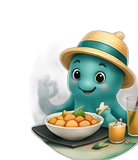
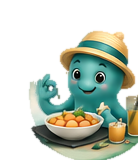
Agrandit et décircularise le badge mascotte des lignes catégorie
- Bulle circulaire retirée : la mascotte (détourage nettoyé, halos
  résiduels de la bulle pastel d'origine supprimés) est posée nue,
  agrandie (132px), et déborde volontairement du cadre de la ligne
  pour un effet plus dynamique.
- Fond en lavis dégradé, angle varié par catégorie ; mascotte à
  gauche ou à droite en alternance ; texte agrandi et teinté de la
  couleur de catégorie.
- Les 8 lignes gardent la même taille et les mêmes données (nom +
  compteur) — plus de variante "centrée" qui cassait l'uniformité.

diff --git a/web/components/ui/CategoryRow.tsx b/web/components/ui/CategoryRow.tsx
@@ -5,6 +5,35 @@ import { CATEGORY_MAP } from "@/data/categories";
 import { iconForKey, subIconFor, mascotFor } from "@/lib/icons";
 
 /**
+ * Position de la mascotte dans la ligne de catégorie — gauche/droite en
+ * alternance. Pas de position « centrée » : elle empilait le texte sous la
+ * mascotte et augmentait la hauteur de la carte, cassant l'uniformité des 8
+ * lignes (toutes doivent faire la même taille, avec les mêmes données).
+ */
+const MASCOT_POSITION: Record<string, "left" | "right"> = {
+  "manger-boire": "left",
+  "sortir-decouvrir": "right",
+  "faire-du-sport": "left",
+  "sante-bien-etre": "right",
+  "acheter-equiper": "left",
+  "vie-pratique": "right",
+  "famille-travail": "left",
+  agenda: "right",
+};
+
+/** Angle du dégradé de fond, varié par catégorie pour éviter 8 lignes identiques. */
+const GRADIENT_ANGLE: Record<string, number> = {
+  "manger-boire": 120,
+  "sortir-decouvrir": 60,
+  "faire-du-sport": 150,
+  "sante-bien-etre": 90,
+  "acheter-equiper": 30,
+  "vie-pratique": 135,
+  "famille-travail": 75,
+  agenda: 105,
+};
+
+/**
  * Ligne de navigation (icône dans un rond + libellé + compteur + chevron).
  * Utilise l'icône illustrée découpée (planche fournie par la cliente) quand
  * disponible pour la clé, sinon repli sur l'icône Phosphor simple.
@@ -41,23 +70,97 @@ export function CategoryRow({
   const subIcon = subIconFor(resolvedKey);
   const Icon = iconForKey(resolvedKey);
 
+  const countLabel =
+    count !== undefined ? `${count} adresse${count > 1 ? "s" : ""}` : undefined;
+
+  // Ligne « mascotte » (catégorie) : fond lavis dégradé dans la couleur de la
+  // catégorie (angle varié, cf. GRADIENT_ANGLE), texte et badge agrandis,
+  // mascotte à gauche ou à droite (cf. MASCOT_POSITION) — même taille et
+  // mêmes données sur les 8 lignes, aucune n'est plus haute qu'une autre.
+  if (mascot && cat) {
+    const pos = MASCOT_POSITION[resolvedKey] ?? "left";
+    const angle = GRADIENT_ANGLE[resolvedKey] ?? 120;
+    const labelColor = `color-mix(in srgb, ${cat.color} 55%, var(--ink))`;
+
+    // Mascotte posée directement sur le fond (pas de bulle circulaire) : le
+    // détourage transparent suffit à la faire ressortir. Volontairement plus
+    // grande que la ligne — elle déborde légèrement du cadre pour un effet
+    // plus dynamique.
+    const badge = (
+      // eslint-disable-next-line @next/next/no-img-element
+      <img
+        src={mascot}
+        alt=""
+        aria-hidden
+        className="shrink-0 w-[132px] h-[132px] -my-4 object-contain drop-shadow-[0_4px_8px_rgba(0,0,0,0.18)]"
+      />
+    );
+    const text = (
+      <span className="flex-1 min-w-0 flex flex-col">
+        <span className="flex items-center gap-1.5">
+          <span className="text-[19px] font-extrabold truncate leading-tight" style={{ color: labelColor }}>
+            {displayLabel}
+          </span>
+          {locked && (
+            <span
+              className="shrink-0 inline-flex items-center gap-0.5 px-1.5 py-0.5 rounded-pill text-[9.5px] font-bold text-on-accent"
+              style={{ background: "var(--accent)" }}
+            >
+              🔒 Premium
+            </span>
+          )}
+        </span>
+        {countLabel && (
+          <span className="text-[13.5px] font-semibold" style={{ color: `color-mix(in srgb, ${cat.color} 70%, var(--muted))` }}>
+            {countLabel}
+          </span>
+        )}
+      </span>
+    );
+    const chev = (
+      <span className="shrink-0 text-[20px] font-bold leading-none" style={{ color: cat.color }} aria-hidden>
+        ›
+      </span>
+    );
+
+    const rowBg = `linear-gradient(${angle}deg, color-mix(in srgb, ${cat.color} 30%, var(--surface)) 0%, color-mix(in srgb, ${cat.color} 8%, var(--surface)) 75%)`;
+    const rowBorder = `1px solid color-mix(in srgb, ${cat.color} 38%, var(--border))`;
+
+    return (
+      <button
+        onClick={onClick}
+        className={`w-full flex items-center gap-3.5 rounded-2xl py-2.5 text-left active:scale-[.99] transition-transform ${
+          pos === "right" ? "pl-4 pr-2.5" : "px-3.5"
+        }`}
+        style={{ background: rowBg, border: rowBorder }}
+      >
+        {pos === "left" ? (
+          <>
+            {badge}
+            {text}
+            {chev}
+          </>
+        ) : (
+          <>
+            {text}
+            {badge}
+            {chev}
+          </>
+        )}
+      </button>
+    );
+  }
+
   return (
     <button
       onClick={onClick}
       className="w-full flex items-center gap-3 rounded-2xl border border-border bg-surface px-3 py-2.5 text-left shadow-sm active:scale-[.99] transition-transform"
     >
       <span
-        className={
-          mascot
-            ? "shrink-0 w-16 h-16 -my-1 rounded-2xl overflow-hidden flex items-center justify-center"
-            : "shrink-0 w-11 h-11 rounded-full overflow-hidden flex items-center justify-center"
-        }
+        className="shrink-0 w-11 h-11 rounded-full overflow-hidden flex items-center justify-center"
         style={{ background: iconBg, color: iconColor }}
       >
-        {mascot ? (
-          // eslint-disable-next-line @next/next/no-img-element
-          <img src={mascot} alt="" aria-hidden className="w-full h-full object-contain" />
-        ) : subIcon ? (
+        {subIcon ? (
           // eslint-disable-next-line @next/next/no-img-element
           <img src={subIcon} alt="" aria-hidden className="w-full h-full object-cover" />
         ) : Icon ? (
@@ -78,11 +181,7 @@ export function CategoryRow({
             </span>
           )}
         </span>
-        {count !== undefined && (
-          <span className="block text-[12px] text-muted">
-            {count} adresse{count > 1 ? "s" : ""}
-          </span>
-        )}
+        {countLabel && <span className="block text-[12px] text-muted">{countLabel}</span>}
       </span>
       <span className="shrink-0 text-[18px] font-bold leading-none" style={{ color: "var(--accent)" }} aria-hidden>
         ›
